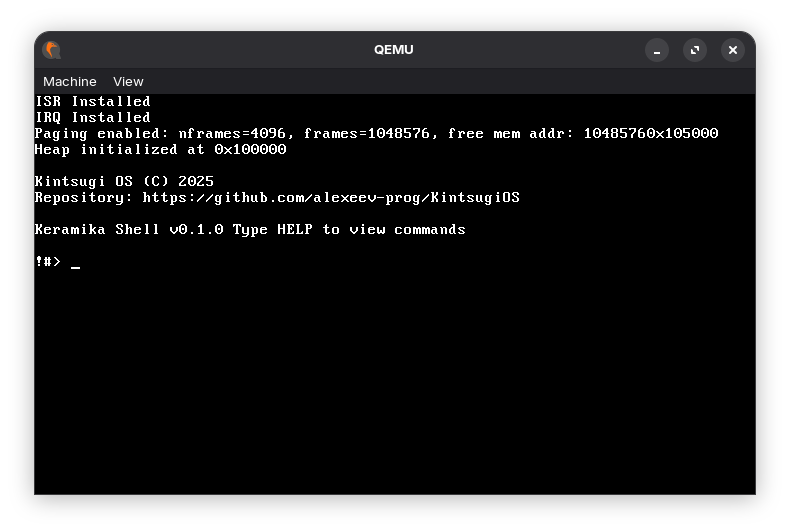
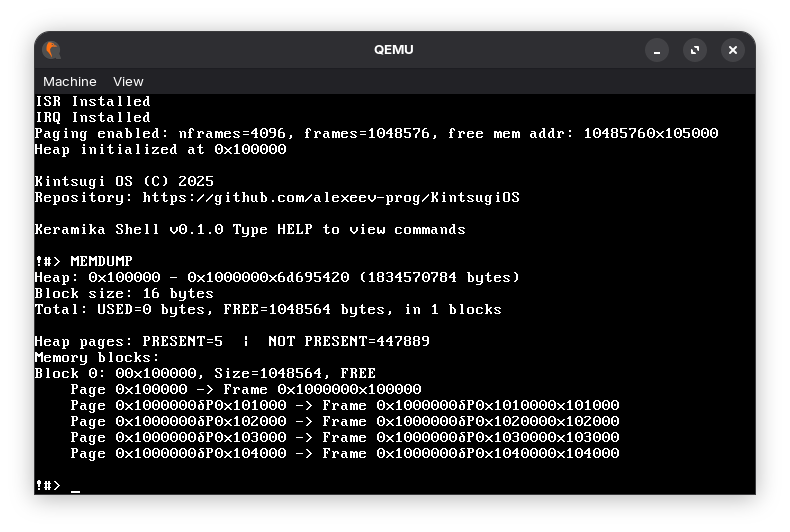
improve memory allocators methods, improve paging, update readme

diff --git a/src/kernel/kklibc/mem.c b/src/kernel/kklibc/mem.c
@@ -10,11 +10,13 @@
 #include "ctypes.h"
 #include "stdio.h"
 #include "stdlib.h"
+#include "paging.h"
 
 u32 free_mem_addr_guard1 = 0xDEADBEEF;
 u32 free_mem_addr = HEAP_START;
 u32 free_mem_addr_guard2 = 0xCAFEBABE;
 static mem_block_t *free_blocks = NULL;
+u32 heap_current_end = HEAP_START + HEAP_SIZE;
 
 // Инициализация памяти heap
 void heap_init() {
@@ -24,11 +26,55 @@ void heap_init() {
     free_blocks->next = NULL;
     free_blocks->is_free = 1;
 
+    // Обновим текущий конец кучи
+    heap_current_end = HEAP_START + HEAP_SIZE;
+
     kprint("Heap initialized at ");
     char buf[32] = "";
     hex_to_ascii(HEAP_START, buf);
     kprint(buf);
     kprint("\n");
+}
+
+int expand_heap(u32 size) {
+    // Выравниваем размер вверх до границы страницы
+    u32 num_pages = (size + PAGE_SIZE - 1) / PAGE_SIZE;
+    u32 expand_size = num_pages * PAGE_SIZE;
+
+    printf("Expanding heap by %d bytes (%d pages)\n", expand_size, num_pages);
+
+    // Мы будем расширять кучу начиная с адреса heap_current_end
+    u32 virtual_address = heap_current_end;
+
+    for (u32 i = 0; i < num_pages; i++) {
+        // Запрашиваем физический фрейм
+        page_t *page = get_page(virtual_address, 1, kernel_directory);
+        if (!page) {
+            kprint("Failed to get page for heap expansion!\n");
+            return 0;
+        }
+
+        // Выделяем фрейм для страницы (с флагами ядра и записи)
+        alloc_frame(page, 0, 1);
+
+        // Обновляем виртуальный адрес для следующей страницы
+        virtual_address += PAGE_SIZE;
+    }
+
+    // Теперь нам нужно добавить новую область памяти в список свободных блоков
+    mem_block_t *new_block = (mem_block_t *)heap_current_end;
+    new_block->size = expand_size - sizeof(mem_block_t); // Учитываем заголовок
+    new_block->is_free = 1;
+    new_block->next = free_blocks; // Добавляем в начало списка
+
+    // Обновляем глобальный список свободных блоков
+    free_blocks = new_block;
+
+    // Обновляем текущий конец кучи
+    heap_current_end += expand_size;
+
+    printf("Heap expanded successfully. New end: %x\n", heap_current_end);
+    return 1;
 }
 
 void *kmalloc(u32 size) {
@@ -47,13 +93,9 @@ void *kmalloc(u32 size) {
             // самого блока
             if (current->size > size + sizeof(mem_block_t) + BLOCK_SIZE) {
                 // Можем разделить блок
-                mem_block_t *new_block =
-                        (mem_block_t *)((u32)current + sizeof(mem_block_t) +
+                mem_block_t *new_block = (mem_block_t *)((u32)current + sizeof(mem_block_t) +
                                                         size); // поинтер на новый блок
-                new_block->size =
-                        current->size - size -
-                        sizeof(
-                                mem_block_t); // размер текущего - выделяемый - размер структуры
+                new_block->size = current->size - size - sizeof(mem_block_t); // размер текущего - выделяемый - размер структуры
                 new_block->is_free = 1; // свободен
                 new_block->next = current->next;
 
@@ -70,20 +112,68 @@ void *kmalloc(u32 size) {
         current = current->next;
     }
 
-    kprint("No free blocks found\n");
-    return NULL;
+    // Если дошли сюда, значит, подходящего блока не найдено -> пробуем расширить кучу
+    printf("No free block found for size %d. Trying to expand heap...\n", size);
+    if (expand_heap(size)) {
+        // После расширения кучи пробуем аллоцировать снова (рекурсивно)
+        return kmalloc(size);
+    } else {
+        kprint("Heap expansion failed!\n");
+        return NULL;
+    }
 }
 
 void *krealloc(void *ptr, u32 size) {
-    if (!ptr) return kmalloc(size); // если нет указателя то просто аллоцируем память
-    if (size == 0) { kfree(ptr); return NULL; } // если размер нулевой освобождаем поинтер
+    if (!ptr)
+        return kmalloc(size);
 
-    mem_block_t *block = (mem_block_t*)((u32)ptr - sizeof(mem_block_t)); // создаем блок
-    if (block->size >= size) return ptr; // если текущий блок достаточно большой
+    if (size == 0) {
+        kfree(ptr);
+        return NULL;
+    }
 
-    void *new_ptr = kmalloc(size); // новый поинтер
-    if (new_ptr) { // если все ок то копируем память и освобождаем старый поинтер
-        memory_copy(ptr, new_ptr, block->size);
+    // Получаем заголовок блока
+    mem_block_t *block = (mem_block_t *)((u32)ptr - sizeof(mem_block_t));
+
+    // Если текущий блок достаточно большой
+    if (block->size >= size) {
+        // Можно ли разделить блок?
+        if (block->size - size >= sizeof(mem_block_t) + BLOCK_SIZE) {
+            mem_block_t *new_block = (mem_block_t *)((u32)block + sizeof(mem_block_t) + size);
+            new_block->size = block->size - size - sizeof(mem_block_t);
+            new_block->is_free = 1;
+            new_block->next = block->next;
+
+            block->size = size;
+            block->next = new_block;
+        }
+        return ptr;
+    }
+
+    // Пытаемся объединить с последующим свободным блоком
+    if (block->next && block->next->is_free) {
+        u32 total_size = block->size + sizeof(mem_block_t) + block->next->size;
+        if (total_size >= size) {
+            block->size = total_size;
+            block->next = block->next->next;
+
+            // Разделяем блок, если осталось место
+            if (total_size - size >= sizeof(mem_block_t) + BLOCK_SIZE) {
+                mem_block_t *new_block = (mem_block_t *)((u32)block + sizeof(mem_block_t) + size);
+                new_block->size = total_size - size - sizeof(mem_block_t);
+                new_block->is_free = 1;
+                new_block->next = block->next;
+                block->next = new_block;
+                block->size = size;
+            }
+            return ptr;
+        }
+    }
+
+    // Если не можем расширить, выделяем новый блок и копируем данные
+    void *new_ptr = kmalloc(size);
+    if (new_ptr) {
+        memcpy(new_ptr, ptr, block->size);
         kfree(ptr);
     }
     return new_ptr;
@@ -93,25 +183,64 @@ void kfree(void *ptr) {
     if (!ptr)
         return;
 
-    // получаем указатель на заголовок блока
+    // Получаем указатель на заголовок блока
     mem_block_t *block = (mem_block_t *)((u32)ptr - sizeof(mem_block_t));
 
-    if (block->is_free) { // блок уже освобожден
+    if (block->is_free) {
         kprint("Double free detected!\n");
         return;
     }
 
     block->is_free = 1;
 
-    /* попробуем объединить с соседними свободными блоками*/
+    // Попробуем объединить с соседними свободными блоками
     mem_block_t *current = free_blocks;
+    mem_block_t *prev = NULL;
+
     while (current) {
         if (current->is_free && current->next && current->next->is_free) {
-            // соединим текущий блок со следующим
+            // Объединяем текущий блок со следующим
             current->size += sizeof(mem_block_t) + current->next->size;
             current->next = current->next->next;
-            free_mem_addr -= current->size;
         }
+
+        // Проверяем, можно ли освободить страницы
+        if (current->is_free) {
+            u32 block_start = (u32)current;
+            u32 block_end = block_start + sizeof(mem_block_t) + current->size;
+
+            // Выравниваем границы блока по границам страниц
+            u32 start_page = block_start & ~(PAGE_SIZE - 1);
+            u32 end_page = (block_end + PAGE_SIZE - 1) & ~(PAGE_SIZE - 1);
+
+            // Проверяем, полностью ли свободны страницы в этом блоке
+            for (u32 page = start_page; page < end_page; page += PAGE_SIZE) {
+                page_t *page_entry = get_page(page, 0, kernel_directory);
+                if (page_entry && page_entry->present) {
+                    // Проверяем, нет ли занятых блоков в этой странице
+                    int page_is_free = 1;
+                    mem_block_t *check = free_blocks;
+                    while (check) {
+                        u32 check_start = (u32)check;
+                        u32 check_end = check_start + sizeof(mem_block_t) + check->size;
+
+                        if (!check->is_free && check_start < page + PAGE_SIZE && check_end > page) {
+                            page_is_free = 0;
+                            break;
+                        }
+                        check = check->next;
+                    }
+
+                    if (page_is_free) {
+                        // Освобождаем фрейм и страницу
+                        free_frame(page_entry);
+                        page_entry->present = 0;
+                    }
+                }
+            }
+        }
+
+        prev = current;
         current = current->next;
     }
 }
@@ -153,14 +282,44 @@ void kmemdump() {
     u32 counter = 0;
 
     printf("Heap: %x - %x (%d bytes)\n", info.heap_start,
-                    info.heap_start + info.heap_size, info.heap_size);
+                    info.heap_current_end, info.heap_current_end - info.heap_start);
     printf("Block size: %d bytes\n", info.block_size);
     printf("Total: USED=%d bytes, FREE=%d bytes, in %d blocks\n\n",
                     info.total_used, info.total_free, info.block_count);
 
+    // Вывод информации о страницах хипа
+
+    int present_pages_count = 0;
+    int not_present_pages_count = 0;
+    for (u32 addr = info.heap_start; addr < info.heap_current_end; addr += PAGE_SIZE) {
+        page_t *page = get_page(addr, 0, kernel_directory);
+        if (page && page->present) {
+            present_pages_count += 1;
+        } else {
+            not_present_pages_count += 1;
+        }
+    }
+
+    printf("Heap pages: PRESENT=%d  |  NOT PRESENT=%d", present_pages_count, not_present_pages_count);
+
+    printf("\nMemory blocks:\n");
     while (current) {
         printf("Block %d: %x, Size=%d, %s\n", counter++, (u32)current,
                         current->size, current->is_free ? "FREE" : "USED");
+
+        // Дополнительная информация о страницах этого блока
+        u32 block_start = (u32)current;
+        u32 block_end = block_start + sizeof(mem_block_t) + current->size;
+        u32 start_page = block_start & ~(PAGE_SIZE - 1);
+        u32 end_page = (block_end + PAGE_SIZE - 1) & ~(PAGE_SIZE - 1);
+
+        for (u32 page_addr = start_page; page_addr < end_page; page_addr += PAGE_SIZE) {
+            page_t *page = get_page(page_addr, 0, kernel_directory);
+            if (page && page->present) {
+                printf("    Page %x -> Frame %x\n", page_addr, page->frame * PAGE_SIZE);
+            }
+        }
+
         current = current->next;
     }
 }

diff --git a/src/kernel/kklibc/paging.h b/src/kernel/kklibc/paging.h
@@ -4,6 +4,12 @@
 #include "ctypes.h"
 #include "../cpu/isr.h"
 
+/* Макросы для работы с битовыми массивами */
+#define INDEX_FROM_BIT(a) (a/(8*4))
+#define OFFSET_FROM_BIT(a) (a%(8*4))
+
+#define PAGE_SIZE 0x1000
+
 /* Внутренняя функция выделения памяти */
 u32 pkmalloc_internal(u32 sz, int align, u32 *phys);
 
@@ -18,10 +24,6 @@ u32 pkmalloc_ap(u32 sz, u32 *phys);
 
 /* Обычное выделение памяти */
 u32 pkmalloc(u32 sz);
-
-/* Макросы для работы с битовыми массивами */
-#define INDEX_FROM_BIT(a) (a/(8*4))
-#define OFFSET_FROM_BIT(a) (a%(8*4))
 
 /* Внешняя переменная текущего адреса свободной памяти */
 extern u32 free_mem_addr;
@@ -88,5 +90,8 @@ page_t *get_page(u32 address, int make, page_directory_t *dir);
   Обработчик пейдж фаултов
 **/
 void page_fault(registers_t regs);
+
+void alloc_frame(page_t *page, int is_kernel, int is_writeable);
+void free_frame(page_t *page);
 
 #endif

diff --git a/src/kernel/kernel/kernel.c b/src/kernel/kernel/kernel.c
@@ -13,6 +13,8 @@
 #include "../kklibc/paging.h"
 #include "../kklibc/kklibc.h"
 
+#define MAX_ARGS 32
+
 int shell_cursor_offset = 0;
 int shell_prompt_offset = 0;
 
@@ -38,11 +40,16 @@ void kmain() {
 
 char** get_args(char *input) {
 	char *token = strtok(input, " ");
-	char** args;
+	static char* args[MAX_ARGS + 1];
 	int arg_counter = 0;
 
     while(token) {
         token = strtok(NULL, " ");
+
+		if (arg_counter + 1 > MAX_ARGS + 1) {
+			printf_colored("Error when parsing args: %d args exceed the limit %d\n", RED_ON_BLACK_CLR_CODE, arg_counter + 1, MAX_ARGS + 1);
+			break;
+		}
 
 		args[arg_counter] = token;
 		arg_counter++;

diff --git a/src/kernel/kklibc/mem.h b/src/kernel/kklibc/mem.h
@@ -23,6 +23,7 @@ typedef struct mem_block {
 typedef struct meminfo {
     u32 heap_start;
     u32 heap_size;
+    u32 heap_current_end;
     u32 block_size;
     mem_block_t* free_blocks;
     u32 total_used;
@@ -33,9 +34,10 @@ typedef struct meminfo {
 meminfo_t get_meminfo();
 void get_freememaddr();
 
-// Новые функции
+int expand_heap(u32 size);
 void heap_init();
 void* kmalloc(u32 size);
+void *krealloc(void *ptr, u32 size);
 void kfree(void* ptr);
 void kmemdump();
 

diff --git a/src/kernel/kklibc/paging.c b/src/kernel/kklibc/paging.c
@@ -90,8 +90,7 @@ static u32 first_frame() {
 }
 
 /* Выделение фрейма для страницы */
-void alloc_frame(page_t *page, int is_kernel, int is_writeable)
-{
+void alloc_frame(page_t *page, int is_kernel, int is_writeable) {
     if (page->frame != 0) {
         return; // Фрейм уже выделен
     } else {

diff --git a/CHANGELOG.md b/CHANGELOG.md
@@ -1,3 +1,9 @@
+commit 1257a001f3ade050a2d997495921417e27a880d4
+Author: Alexeev Bronislav <alexeev.dev@mail.ru>
+Date:   Mon Aug 25 03:18:16 2025 +0700
+
+    improve kklibc stdlib and stdio, add kernel panic red screen
+
 commit f1d82ba66c77d46c2b727a6af6c8ce7e559b3c07
 Author: Alexeev Bronislav <alexeev.dev@mail.ru>
 Date:   Mon Aug 25 02:42:53 2025 +0700
